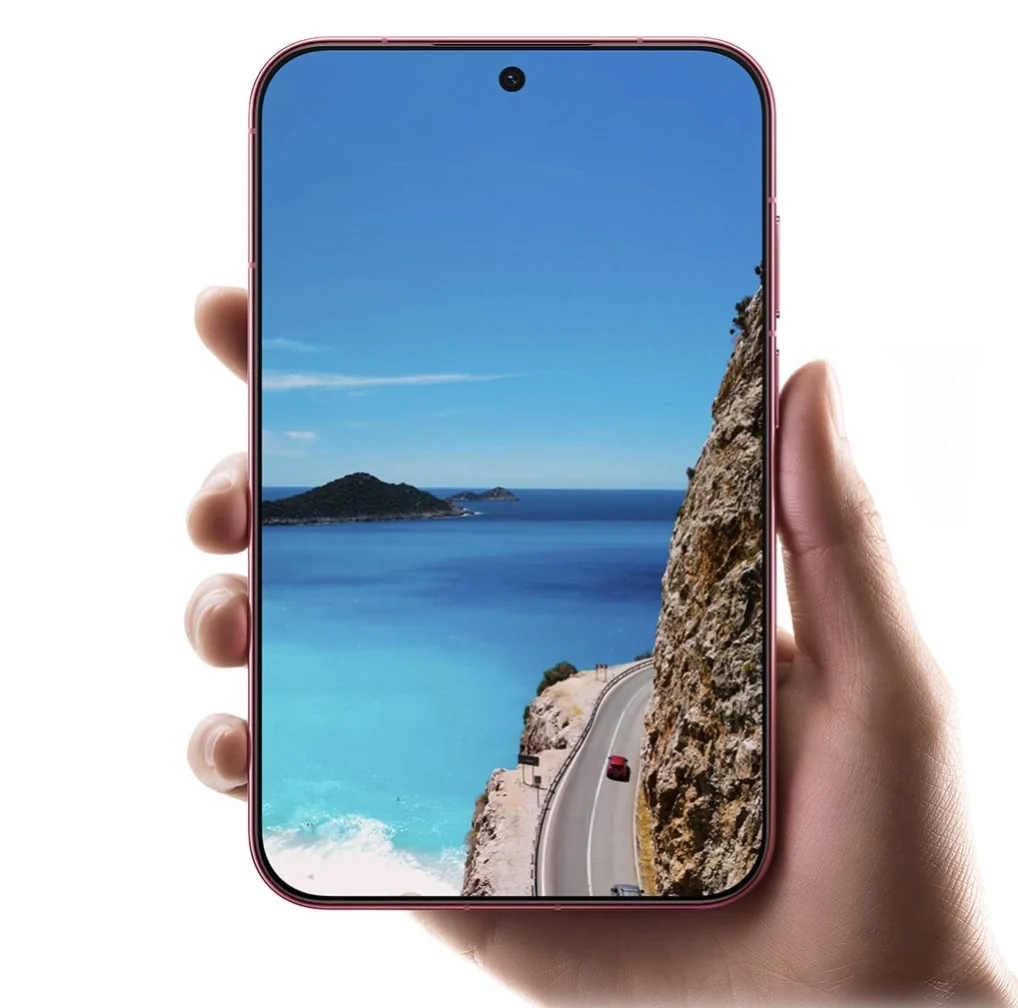
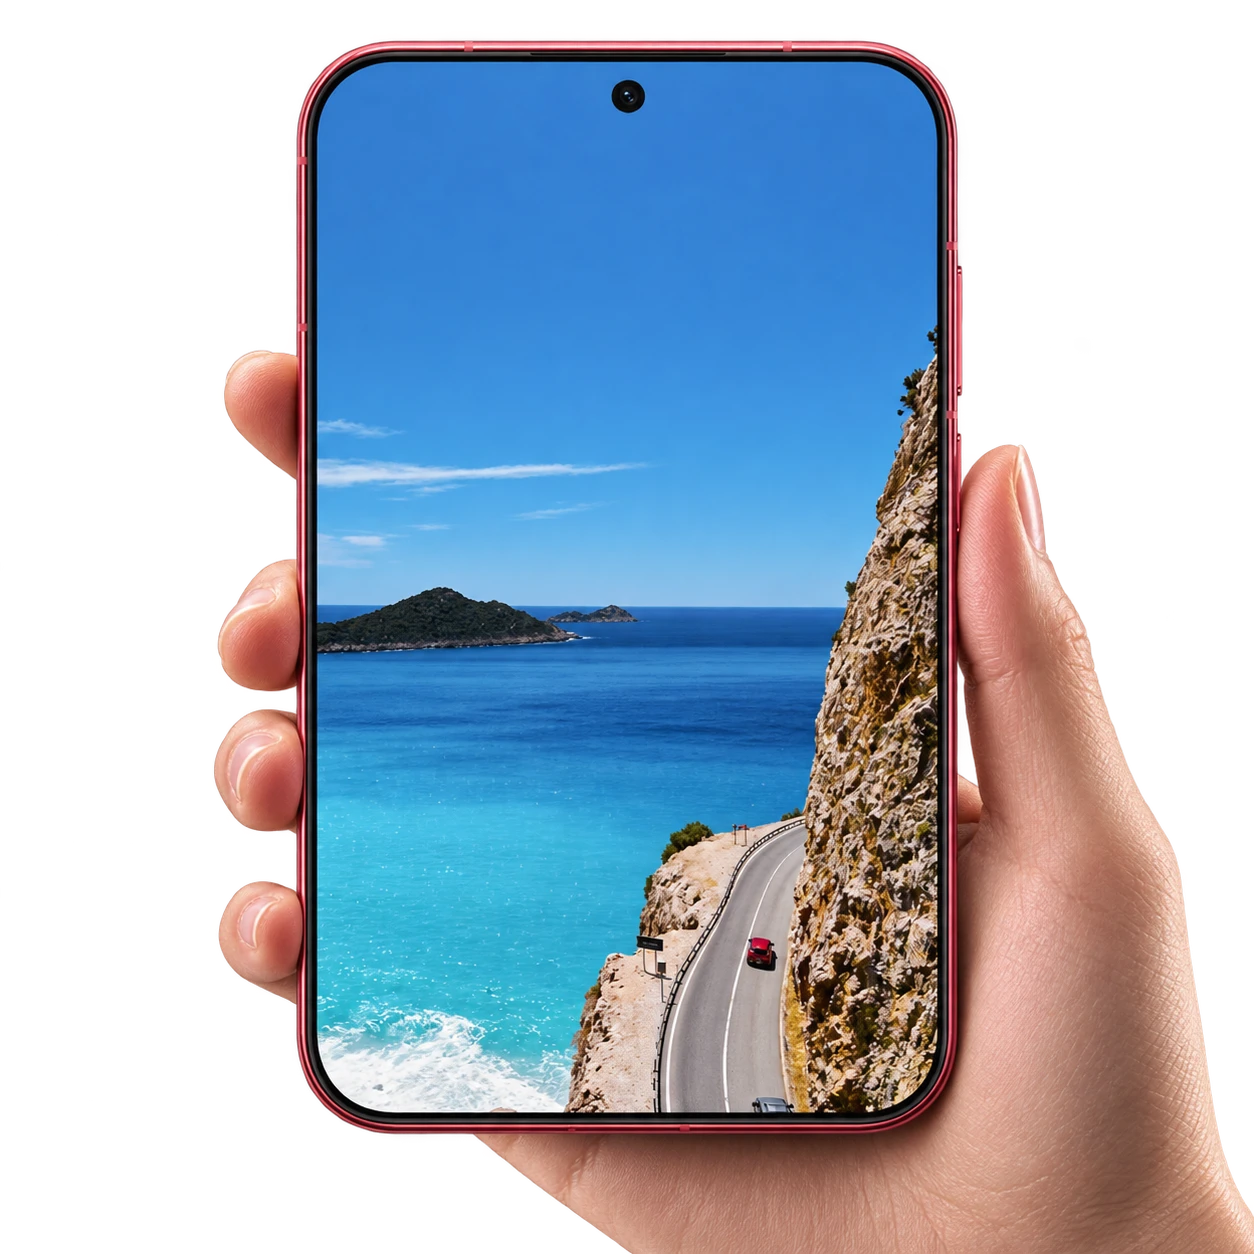
Improve anketa progress, transparent photo and click ranking

diff --git a/app/dotaznik/anketa/Anketa.tsx b/app/dotaznik/anketa/Anketa.tsx
@@ -7,8 +7,9 @@ import { submitAnketa } from './actions';
 import PhoneIllustration from './PhoneIllustration';
 import s from './anketa.module.css';
 
-const DRAFT_KEY = `oppo-anketa-${ANKETA.slug}`;
-const DONE_KEY = `${DRAFT_KEY}-hotovo`;
+// Separate drafts because the last two questions changed order and ranking semantics.
+const DRAFT_KEY = `oppo-anketa-${ANKETA.slug}-ranking-v2`;
+const DONE_KEY = `oppo-anketa-${ANKETA.slug}-hotovo`;
 
 type Draft = { answers: Answers; reached: number; startedAt: number };
 
@@ -54,6 +55,7 @@ function Mark({ on, multi }: { on: boolean; multi: boolean }) {
 function Options({ q, value, onChange }: { q: Question; value: AnswerValue | undefined; onChange: (v: AnswerValue) => void }) {
   if (q.kind === 'matrix') return null;
   const multi = q.kind === 'multi';
+  const ranked = multi && q.ranked;
   const picked = multi ? ((value as string[]) || []) : value ? [value as string] : [];
   const toggle = (o: Option) => {
     if (!multi) return onChange(o.value);
@@ -76,11 +78,19 @@ function Options({ q, value, onChange }: { q: Question; value: AnswerValue | und
             className={`${s.option} ${on ? s.optionOn : ''} ${o.exclusive ? s.optionLast : ''}`}
             onClick={() => toggle(o)}
           >
-            <Mark on={on} multi={multi} />
+            {ranked && !o.exclusive ? (
+              <span className={`${s.mark} ${on ? s.markOn : ''}`} aria-hidden>{on ? picked.indexOf(o.value) + 1 : ''}</span>
+            ) : <Mark on={on} multi={multi} />}
+            {ranked && on && !o.exclusive && <span className={s.srOnly}>{picked.indexOf(o.value) + 1}. místo: </span>}
             <span>{o.label}</span>
           </button>
         );
       })}
+      {ranked && <p className={s.help} aria-live="polite">
+        {picked.some((v) => q.options.find((o) => o.value === v)?.exclusive)
+          ? 'Vybráno: nic by mě nepřesvědčilo.'
+          : `Seřazeno ${picked.length} z ${q.options.filter((o) => !o.exclusive).length} možností.`}
+      </p>}
     </div>
   );
 }
@@ -214,7 +224,10 @@ export default function Anketa({ src, photos, logoSrc }: { src: string; photos: 
             </section>
 
             <section className={s.block}>
-              <h2 className={s.qTitle}>{INTRO_Q.title}</h2>
+              <div className={s.qHead}>
+                <span className={s.num} aria-label={`Otázka 1 z ${ANKETA.questions.length}`}>1/{ANKETA.questions.length}</span>
+                <h2 className={s.qTitle}>{INTRO_Q.title}</h2>
+              </div>
               <Options q={INTRO_Q} value={answers[INTRO_Q.id]} onChange={(v) => setAnswers((a) => ({ ...a, [INTRO_Q.id]: v }))} />
               <div className={s.actions}>
                 <button type="button" className={s.primary} disabled={!answers[INTRO_Q.id]} onClick={start}>
@@ -226,7 +239,7 @@ export default function Anketa({ src, photos, logoSrc }: { src: string; photos: 
               </div>
             </section>
 
-            <ol className={s.list}>
+            <ol className={s.list} start={2}>
               {QUESTIONS.slice(0, reached).map((q, i) => {
                 const last = i === QUESTIONS.length - 1;
                 const ok = isAnswered(q, answers[q.id]);
@@ -239,7 +252,7 @@ export default function Anketa({ src, photos, logoSrc }: { src: string; photos: 
                     className={`${s.block} ${s.reveal}`}
                   >
                     <div className={s.qHead}>
-                      <span className={s.num} aria-hidden>{i + 1}</span>
+                      <span className={s.num} aria-label={`Otázka ${i + 2} z ${ANKETA.questions.length}`}>{i + 2}/{ANKETA.questions.length}</span>
                       <div>
                         <h2 className={s.qTitle}>{q.title}</h2>
                         {q.help && <p className={s.help}>{q.help}</p>}

diff --git a/lib/survey.ts b/lib/survey.ts
@@ -39,7 +39,15 @@ export type SingleQuestion = Base & {
   style: 'list' | 'tiles' | 'shapes' | 'scale' | 'storage';
   options: Option[];
 };
-export type MultiQuestion = Base & { kind: 'multi'; options: Option[]; max?: number };
+export type MultiQuestion = Base & { kind: 'multi'; options: Option[]; max?: number; ranked?: boolean; previousId?: string };
+
+/** A ranking must contain every regular option once, or one exclusive opt-out. */
+export function isCompleteRanking(q: MultiQuestion, value: unknown): value is string[] {
+  if (!Array.isArray(value) || !value.length || new Set(value).size !== value.length) return false;
+  if (!value.every((v) => typeof v === 'string' && q.options.some((o) => o.value === v))) return false;
+  const exclusive = value.some((v) => q.options.find((o) => o.value === v)?.exclusive);
+  return exclusive ? value.length === 1 : value.length === q.options.filter((o) => !o.exclusive).length;
+}
 export type MatrixQuestion = Base & {
   kind: 'matrix';
   style: 'shapes' | 'scale';
@@ -505,7 +513,7 @@ export type SurveyDef = {
 export function isAnswered(q: Question, v: AnswerValue | undefined): boolean {
   if (v === undefined) return false;
   if (q.kind === 'single') return typeof v === 'string' && v.length > 0;
-  if (q.kind === 'multi') return Array.isArray(v) && v.length > 0;
+  if (q.kind === 'multi') return q.ranked ? isCompleteRanking(q, v) : Array.isArray(v) && v.length > 0;
   return typeof v === 'object' && !Array.isArray(v) && q.rows.every((r) => typeof v[r.value] === 'string');
 }
 
@@ -521,9 +529,23 @@ export function labelOf(q: Question, value: string): string {
 export function formatAnswer(q: Question, v: AnswerValue | undefined): string {
   if (v === undefined) return '';
   if (q.kind === 'single') return typeof v === 'string' ? labelOf(q, v) : '';
-  if (q.kind === 'multi') return Array.isArray(v) ? v.map((x) => labelOf(q, x)).join(', ') : '';
+  if (q.kind === 'multi') {
+    if (!Array.isArray(v)) return '';
+    return v.map((x, i) => {
+      const rank = q.ranked && !q.options.find((o) => o.value === x)?.exclusive ? `${i + 1}. ` : '';
+      return `${rank}${labelOf(q, x)}`;
+    }).join(q.ranked ? '; ' : ', ');
+  }
   if (typeof v !== 'object' || Array.isArray(v)) return '';
   return q.rows.map((r) => `${r.label}: ${v[r.value] ? labelOf(q, v[r.value]) : '-'}`).join('; ');
+}
+
+/** Keep pre-ranking responses readable without assigning them a fictitious order. */
+export function formatResponseAnswer(q: Question, answers: Answers): string {
+  if (q.kind === 'multi' && q.ranked && answers[q.id] === undefined && q.previousId && answers[q.previousId] !== undefined) {
+    return `Dřívější výběr bez pořadí: ${formatAnswer({ ...q, ranked: false }, answers[q.previousId])}`;
+  }
+  return formatAnswer(q, answers[q.id]);
 }
 
 /**
@@ -539,6 +561,7 @@ export function cleanAnswers(raw: unknown, questions: Question[] = QUESTIONS): {
       if (typeof v !== 'string' || !q.options.some((o) => o.value === v)) return { answers, error: `Chybí odpověď: ${q.title}` };
       answers[q.id] = v;
     } else if (q.kind === 'multi') {
+      if (q.ranked && !isCompleteRanking(q, v)) return { answers, error: `Seřaďte všechny možnosti: ${q.title}` };
       if (!Array.isArray(v) || v.length === 0) return { answers, error: `Chybí odpověď: ${q.title}` };
       const picked = [...new Set(v.filter((x): x is string => typeof x === 'string' && q.options.some((o) => o.value === x)))];
       if (picked.length === 0) return { answers, error: `Chybí odpověď: ${q.title}` };

diff --git a/lib/survey-anketa.ts b/lib/survey-anketa.ts
@@ -123,21 +123,6 @@ export const ANKETA_QUESTIONS: Question[] = [
     ],
   },
   {
-    id: 'convince',
-    section: 'otazky',
-    short: 'Co by přesvědčilo',
-    kind: 'multi',
-    title: 'Co by vás nejvíce přesvědčilo dát širšímu formátu šanci při koupi příštího mobilu?',
-    help: MORE,
-    options: [
-      { value: 'vyzkouseni', label: 'Možnost si ho předem vyzkoušet naživo v prodejně' },
-      { value: 'ergonomie', label: 'Skvělá ergonomie (tenké tělo, nízká hmotnost a dobře tvarované hrany)' },
-      { value: 'foto_baterie', label: 'Špičkové fotoaparáty a velká baterie, kterou širší tělo umožní' },
-      { value: 'cena', label: 'Cena srovnatelná s klasickými modely stejné třídy' },
-      { value: 'nic', label: 'Nic, zůstanu u klasického úzkého tvaru', exclusive: true },
-    ],
-  },
-  {
     id: 'purchase',
     section: 'otazky',
     short: 'Jak by postupoval(a)',
@@ -150,6 +135,23 @@ export const ANKETA_QUESTIONS: Question[] = [
       { value: 'osahat', label: 'Určitě si ho musím nejdřív osahat naživo, jak sedí v ruce a v kapse' },
       { value: 'pockam', label: 'Počkám na reakce prvních uživatelů, jestli se tento formát uchytí' },
       { value: 'nezaujal', label: 'Tento formát mě nezaujal' },
+    ],
+  },
+  {
+    id: 'convince_ranked',
+    section: 'otazky',
+    short: 'Co by přesvědčilo',
+    kind: 'multi',
+    ranked: true,
+    previousId: 'convince',
+    title: 'Co by vás nejvíce přesvědčilo dát širšímu formátu šanci při koupi příštího mobilu?',
+    help: 'Klikáním seřaďte všechny možnosti od nejdůležitější po nejméně důležitou. První kliknutí = 1. místo. Opětovným kliknutím volbu odeberete a můžete pořadí změnit. Pokud vás nic nepřesvědčí, vyberte pouze poslední možnost.',
+    options: [
+      { value: 'vyzkouseni', label: 'Možnost si ho předem vyzkoušet naživo v prodejně' },
+      { value: 'ergonomie', label: 'Skvělá ergonomie (tenké tělo, nízká hmotnost a dobře tvarované hrany)' },
+      { value: 'foto_baterie', label: 'Špičkové fotoaparáty a velká baterie, kterou širší tělo umožní' },
+      { value: 'cena', label: 'Cena srovnatelná s klasickými modely stejné třídy' },
+      { value: 'nic', label: 'Nic, zůstanu u klasického úzkého tvaru', exclusive: true },
     ],
   },
 ];

diff --git a/app/admin/dotaznik/Dashboard.tsx b/app/admin/dotaznik/Dashboard.tsx
@@ -1,5 +1,5 @@
 import Link from 'next/link';
-import { formatAnswer, labelOf, type Question, type SurveyDef } from '@/lib/survey';
+import { formatResponseAnswer, formatAnswer, labelOf, type Question, type SurveyDef } from '@/lib/survey';
 import { ANKETA } from '@/lib/survey-anketa';
 import { MAIN_SURVEY } from '@/lib/survey';
 import {
@@ -35,7 +35,7 @@ function tableColumns(questions: Question[]) {
             return cell ? labelOf(q, cell) : '';
           },
         }))
-      : [{ key: q.id, head: q.short, wrap: q.kind === 'multi' || (q.kind === 'single' && q.style === 'list'), get: (r: SurveyResponse) => formatAnswer(q, r.answers[q.id]) }],
+      : [{ key: q.id, head: q.short, wrap: q.kind === 'multi' || (q.kind === 'single' && q.style === 'list'), get: (r: SurveyResponse) => formatResponseAnswer(q, r.answers) }],
   );
 }
 
@@ -75,7 +75,7 @@ function QuestionCard({ q, rows }: { q: Question; rows: SurveyResponse[] }) {
     <div className={s.qCard}>
       <h3 className={s.qTitle}>{q.title}</h3>
       <p className={s.qMeta}>
-        {answered} odpovědí{multi ? `, mohli vybrat víc${q.max ? ` (nejvýš ${q.max})` : ''}: procenta z respondentů, nesčítají se do 100 %` : ''}
+        {answered} odpovědí{multi && q.ranked ? ', podíl odpovědí na 1. místě; celé pořadí je v tabulce a CSV' : multi ? `, mohli vybrat víc${q.max ? ` (nejvýš ${q.max})` : ''}: procenta z respondentů, nesčítají se do 100 %` : ''}
       </p>
       <BarList counts={counts} total={answered} colors={colors} />
     </div>

diff --git a/app/dotaznik/anketa/anketa.module.css b/app/dotaznik/anketa/anketa.module.css
@@ -47,7 +47,7 @@
   scroll-snap-type: x mandatory;
   border-radius: 28px;
 }
-/* The product photo sits on white and the hand leaves the frame at the bottom: a white stage, anchored to its lower edge. */
+/* Transparent product cutout, anchored where the hand leaves the frame. */
 .photos img {
   display: block;
   flex: 0 0 100%;
@@ -56,7 +56,7 @@
   aspect-ratio: 1018 / 1008;
   object-fit: cover;
   object-position: center bottom;
-  background: #fff;
+  background: transparent;
   border-radius: 28px;
   scroll-snap-align: center;
 }
@@ -78,7 +78,7 @@
 
 .qHead { display: grid; grid-template-columns: auto 1fr; gap: 14px; align-items: start; }
 .num {
-  width: 34px; height: 34px; border-radius: 50%;
+  width: 44px; height: 44px; border-radius: 50%;
   display: grid; place-items: center;
   background: var(--green); color: #fff;
   font-weight: 700; font-size: 15px; font-variant-numeric: tabular-nums;
@@ -139,7 +139,7 @@
 @media (min-width: 720px) {
   .block { padding: 32px 34px 30px; }
   .qHead { gap: 18px; }
-  .num { width: 38px; height: 38px; }
+  .num { width: 48px; height: 48px; }
 }
 @media (min-width: 960px) {
   .page { padding: 36px 40px 120px; }
@@ -152,3 +152,5 @@
 @media (prefers-reduced-motion: reduce) {
   .root *, .root *::before, .root *::after { animation: none !important; transition: none !important; }
 }
+
+.srOnly { position: absolute; width: 1px; height: 1px; padding: 0; margin: -1px; overflow: hidden; clip-path: inset(50%); white-space: nowrap; border: 0; }

diff --git a/app/api/admin/export/route.ts b/app/api/admin/export/route.ts
@@ -1,6 +1,6 @@
 import { NextResponse, type NextRequest } from 'next/server';
 import { getUser, isAdminEmail, isPhotowalkAdminEmail, isSurveyAdminEmail } from '@/lib/auth';
-import { formatAnswer, labelOf } from '@/lib/survey';
+import { formatResponseAnswer, labelOf, type Answers } from '@/lib/survey';
 import { listResponses, sourceLabel, surveyByVersion } from '@/lib/survey-data';
 import { createAdminClient } from '@/lib/supabase/admin';
 import { PHOTOWALK } from '@/lib/config';
@@ -37,7 +37,7 @@ export async function GET(request: NextRequest) {
           });
         }
       } else {
-        cols.push({ head: q.short, get: (a) => formatAnswer(q, a[q.id] as never) });
+        cols.push({ head: q.short, get: (a) => formatResponseAnswer(q, a as Answers) });
       }
     }
     const responses = ((await listResponses(def.slug)) ?? []).slice().reverse();

diff --git a/lib/survey-data.ts b/lib/survey-data.ts
@@ -67,7 +67,9 @@ export function countOptions(rows: SurveyResponse[], q: Question): { counts: Cou
   let answered = 0;
   for (const r of rows) {
     const v = r.answers[q.id];
-    const picked = typeof v === 'string' ? [v] : Array.isArray(v) ? v : [];
+    const values = typeof v === 'string' ? [v] : Array.isArray(v) ? v : [];
+    // Ranking summaries count the first choice; full order stays in the table/export.
+    const picked = q.kind === 'multi' && q.ranked ? values.slice(0, 1) : values;
     if (picked.length) answered++;
     for (const p of picked) {
       const c = counts.find((x) => x.value === p);
